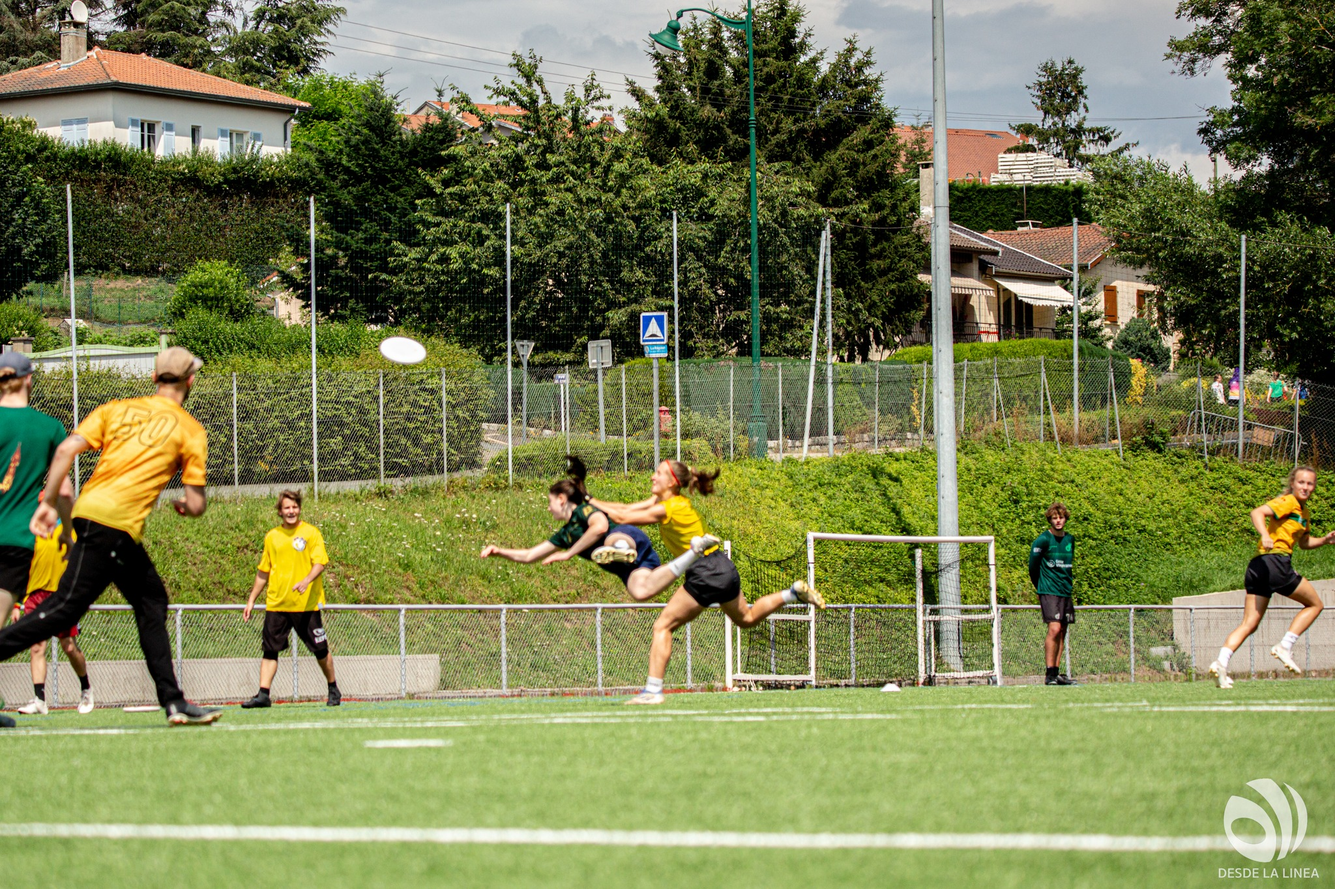
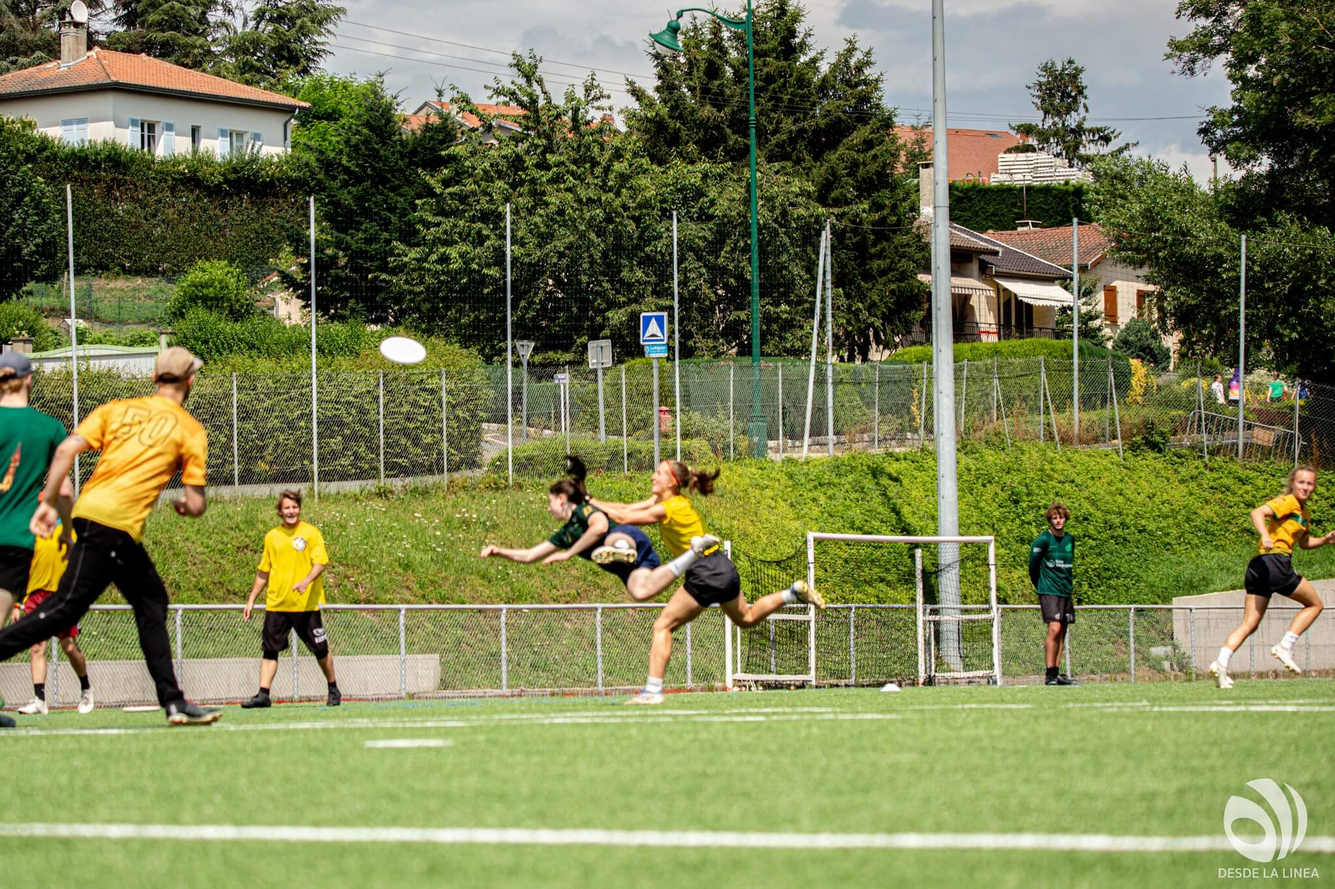
Compress img

diff --git a/index.html b/index.html
@@ -87,6 +87,12 @@
         <div class="carousel-slide">
           <img src="image/header/DSC_8723.jpg" alt="Layout M Dark" />
         </div>
+        <div class="carousel-slide">
+          <img src="image/header/DSCF5002.jpg" alt="Coaches 2024" />
+        </div>
+        <div class="carousel-slide">
+          <img src="image/header/IMG_7381.jpg" alt="Party on the field" />
+        </div>
       </div>
     </div>
     <!--Main content-->
